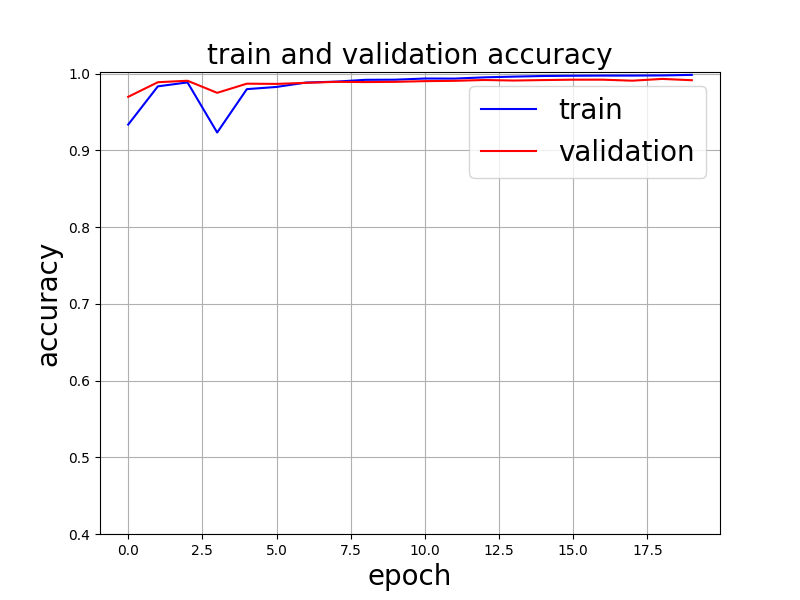
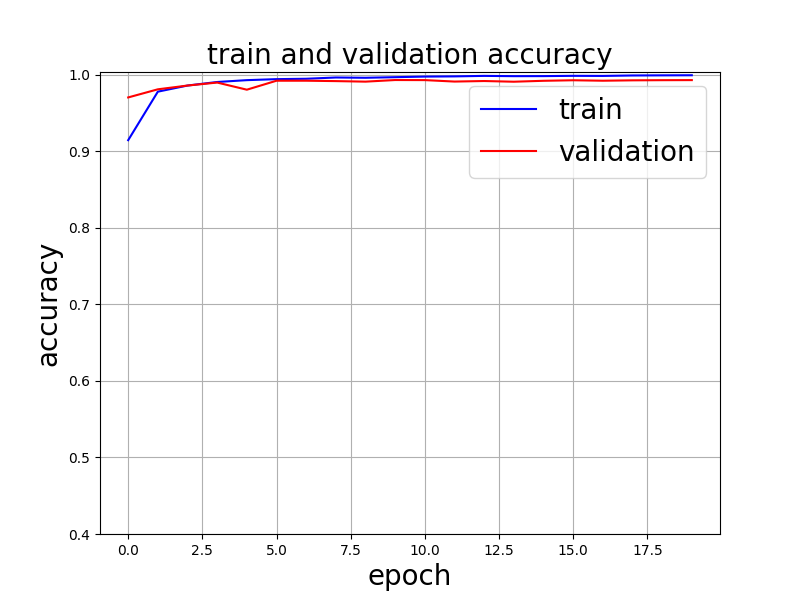
実験20

Changed region(s): [[0.0938, 0.12, 0.875, 0.27], [0.125, 0.36, 0.875, 0.39]]

diff --git a/main.py b/main.py
@@ -14,7 +14,7 @@ model = get_resnet(pretrained=True).to(device)
 dataloader1 = get_train_dataloader(root="data", batch_size=64)
 dataloader2 = get_test_dataloader(root='data', batch_size=64)
 # オプティマイザーの定義
-optimizer = optim.SGD(params=model.parameters(),lr=1e-2)
+optimizer = optim.SGD(params=model.parameters(),lr=1e-1)
 # 損失関数の定義
 criterion = nn.CrossEntropyLoss()
 #epoch数
@@ -48,7 +48,7 @@ def train(epochs):
     print(f"epoch: {epochs + 1}")
     print(f"train_loss: {train_loss / len(dataloader1)}")
     print(f"train_accuracy: {train_accuracy / len(dataloader1)}")
-    with open('./result/data15_train.csv', 'a') as f:
+    with open('./result/data20_train.csv', 'a') as f:
             f.write('{:<3d},{:<3f},{:<3f}\n'.format(epochs+1,train_loss / len(dataloader1),train_accuracy / len(dataloader1)))
     train_loss = train_loss / len(dataloader1)
     train_accuracy = train_accuracy / len(dataloader1)
@@ -77,7 +77,7 @@ def val(epochs):
     print(f"epoch: {epochs + 1}")
     print(f"Validation loss: {val_loss / len(dataloader2)}")
     print(f"Validation accuracy: {val_accuracy / len(dataloader2)}")
-    with open('./result/data15_val.csv', 'a') as f:
+    with open('./result/data20_val.csv', 'a') as f:
             f.write('{:<3d},{:<3f},{:<3f}\n'.format(epochs+1,val_loss / len(dataloader2),val_accuracy / len(dataloader2)))
     val_loss = val_loss / len(dataloader2)
     val_accuracy = val_accuracy / len(dataloader2)
@@ -116,7 +116,7 @@ def run():
     ax.grid()
     ax.legend(fontsize='20')
     plt.show()
-    plt.savefig('./result/loss_graph_15.png')
+    plt.savefig('./result/loss_graph_20.png')
      #accuracyグラフ作成
     fig, ax = plt.subplots(figsize=(8, 6))
     ax.plot(range(len(train_accuracy_list)), train_accuracy_list, c='b', label='train')
@@ -128,7 +128,7 @@ def run():
     ax.grid()
     ax.legend(fontsize='20')
     plt.show()
-    plt.savefig('./result/accuracy_graph_15.png')
+    plt.savefig('./result/accuracy_graph_20.png')
     #間違えた数字の可視化
     fig = plt.figure(figsize=(20,5))
     data_block = torch.cat(data_list,dim=0)
@@ -139,7 +139,7 @@ def run():
         ax.axis('off')
         ax.set_title(f'true:{true_list[idx]} pred:{preds_list[idx]}')
         ax.imshow(data_block[idx,0])
-        plt.savefig('./result/misspreddata_15')
+        plt.savefig('./result/misspreddata_20')
 
 if __name__ == "__main__":
     run()
